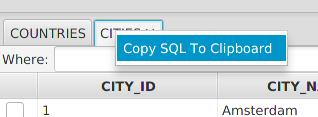
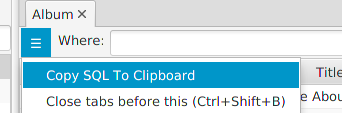
uodated the documentation on the Copy SQL menu.

diff --git a/docs/Copy-Data.md b/docs/Copy-Data.md
@@ -10,7 +10,7 @@ categories: [GUI]
 ## Copy data
 
 DBTarzan can be used together with SQL script editors, by copying the query it generates.
-To copy the SQL query of a table tab to the clipboard, right click on the tab text and click on the menu "Copy SQL to clipboard":
+To copy the SQL query of a table tab to the clipboard, open the menu by the where clause text and click on "Copy SQL to clipboard":
 
 ![Copy SQL to clipboard](images/copysql.png)
 
